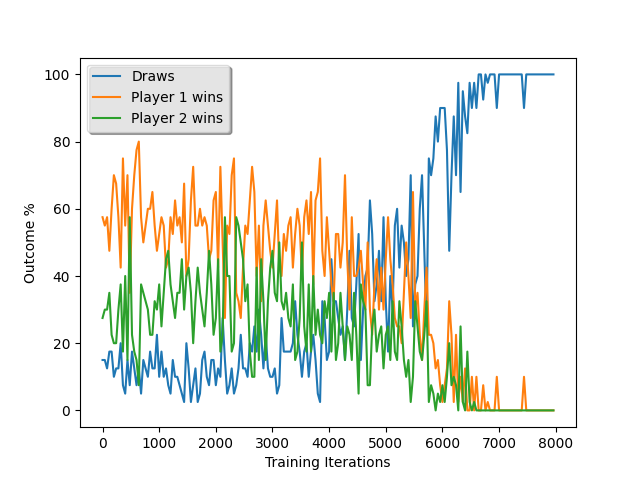
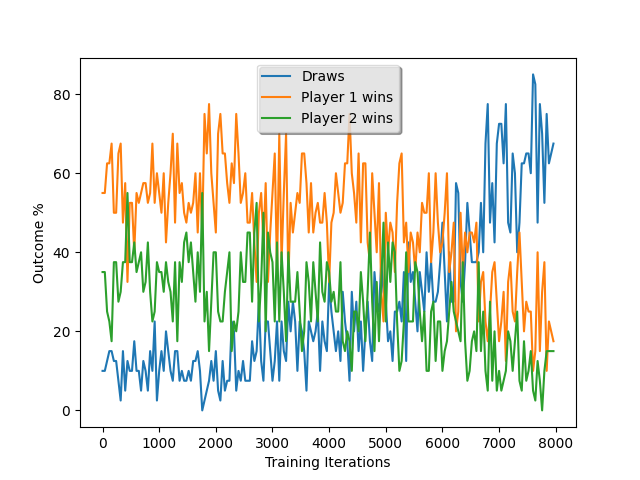
implemented sarsa

diff --git a/sarsalearn.py b/sarsalearn.py
@@ -1,53 +1,51 @@
-import argparse
-import copy
-from hashlib import new
-from game.tic_tac_toe import Board
-from game.tic_tac_toe import TicTacToe
+from typing import Tuple, final
 from game.Player import Player
+from game.tic_tac_toe import Board
+
 import numpy as np
 
-# rewards for win, draw, and loss
 RES_WIN = 1.0
 RES_DRAW = 0.5
 RES_LOSS = 0.0
 
-
-class TDAgent(Player):
+class SarsaAgent(Player):
     def __init__(self,
-                 alpha: float =  0.1,
+                 alpha: float =  0.9,
                  gamma: float = 0.9,
                  epsilon: float = 0.1,
-                 v_init: float = 0.05) -> None:
+                 q_init: float = 0.6) -> None:
         self.side = None
         self.training: bool = True
-        # create table for each possible board state
-        self.vtable = np.empty([3 ** (3 ** 2 + 1)])
-        self.vtable.fill(v_init)
+
+        # create qtable for each possible board state
+        self.qtable = np.full((3 ** (3 ** 2 + 1), 9), q_init)
 
         self.history = []
         self.alpha: float = alpha
         self.gamma: float = gamma
         self.epsilon: float = epsilon
-        self.v_init = v_init
+        self.q_init = q_init
         super().__init__()
-    
+
+
     def get_move(self, board: Board) -> int:
         possible = board.possible_actions()
-
         # take random move epsilon % of the time
         if np.random.binomial(1, self.epsilon) and self.training:
             np.random.shuffle(possible)
             move = tuple(possible[0])
             return (3*move[0] + move[1])
         
-        # otherwise take best move from possible choices
-        copies = [copy.deepcopy(board) for i in possible]
-        for action, boardcopy in zip(possible, copies):
-            boardcopy.take_turn(tuple(action))
-        hashes = [boardcopy.hash() for boardcopy in copies]
-        move = tuple(possible[np.argmax(self.vtable[hashes])])
-        return (3*move[0] + move[1])
-    
+        #otherwise, take best action from qtable
+        board_hash = board.hash()
+        qvals = self.qtable[board_hash]
+        while True:
+            move = np.argmax(qvals)
+            if (board.is_possible((move // 3, move % 3))):
+                return move
+            else:
+                qvals[move] = -1.0
+
     def move(self, board: Board):
         over, _ = board.is_over()
         move = self.get_move(board)
@@ -55,11 +53,11 @@ class TDAgent(Player):
         assert (board.is_possible(action))
         assert (not over)
 
-        self.history.append(board.hash())
+        self.history.append((board.hash(), move))
         board.take_turn(action)
         over, winner = board.is_over()
         return (winner, board, over)
-    
+
     def final_result(self, result: int):
         if (result == -1 and self.side == -1) or (result == 1 and self.side == 1):
             final_value = RES_WIN
@@ -71,19 +69,19 @@ class TDAgent(Player):
         self.history.reverse()
         firstTime = True
 
-        for state in self.history:
-            # on first pass
-            if firstTime:
-                self.vtable[state] = final_value
+        for h in self.history:
+            qvals = self.qtable[h[0]]
+            if firstTime:  # First time through the loop
+                # set the reward of the final move to result reward
+                qvals[h[1]] = final_value
                 firstTime = False
             else:
-                # V(S) = V(S) + \alpha[R + \gamma*V(S') - V(S)]
-                self.vtable[state] = self.vtable[state] + self.alpha * (self.gamma * next_state - self.vtable[state])
-            next_state = self.vtable[state]
-        
-    def new_game(self, side: int):
+                qvals[h[1]] = qvals[h[1]] + self.alpha * (self.gamma * next_max - qvals[h[1]])
+            next_max = qvals[h[1]]
+
+    def new_game(self, side):
         self.side = side
         self.history = []
-    
+
     def set_training(self, training):
         self.training = training

diff --git a/eval.py b/eval.py
@@ -1,12 +1,14 @@
 import matplotlib
 import numpy as np
 import matplotlib.pyplot as plt
+from HumanPlayer import HumanPlayer
 from qlearn import QAgent
 
 from game.tic_tac_toe import Board
 from game.tic_tac_toe import TicTacToe
 from rand_player import RandomPlayer
 from game.Player import Player
+from sarsalearn import SarsaAgent
 from tdlearn import TDAgent
 from benchmark_player import BenchmarkPlayer
 
@@ -27,9 +29,9 @@ def play_game(board: Board, player1: Player, player2: Player) -> int:
             player2.final_result(winner)
             return winner
         if player1Turn:
-            (winner, _, over) = player1.move(board)
+            (winner, board, over) = player1.move(board)
         else:
-            (winner, _, over) = player2.move(board)
+            (winner, board, over) = player2.move(board)
         player1Turn = not player1Turn
 
 
@@ -88,16 +90,41 @@ def eval_players(
 # player1 = QAgent()
 # player2 = QAgent()
 # eval_players("qvq", player1, player2, 40, 200)
+
+# play q agent against benchmark
+# player1.set_training(False)
 # player2 = BenchmarkPlayer()
 # eval_players("qvqanalysis", player1, player2, 40, 200)
 
+# train q agent against benchmark
 # player1 = QAgent()
 # player2 = BenchmarkPlayer()
+
+# play q agent against benchmark
+# player1.set_training(False)
 # eval_players("qvb", player1, player2, 40, 200)
 # player2 = BenchmarkPlayer()
 # eval_players("qvbanalysis", player1, player2, 40, 200)
 
 # train tdagent
-player1 = TDAgent()
-player2 = TDAgent()
-eval_players('tdvtd',player1, player2, 40, 200)
+# player1 = TDAgent()
+# player2 = TDAgent()
+# eval_players('tdvtd',player1, player2, 10, 40)
+
+# player1.set_training(False)
+# player2 = HumanPlayer()
+# eval_players('tdvh', player1, player2, 1, 3)
+
+# play td agent aginst benchmark
+# player1.set_training(False)
+# player2 = BenchmarkPlayer()
+# eval_players("tdvtd analysis", player1, player2, 40, 200)
+
+# train sarsa agent
+player1 = SarsaAgent()
+player2 = SarsaAgent()
+eval_players('svs', player1, player2, 40, 200)
+
+player1.set_training(False)
+player2 = BenchmarkPlayer()
+eval_players('svb', player1, player2, 40, 200)

diff --git a/game/tic_tac_toe.py b/game/tic_tac_toe.py
@@ -56,6 +56,9 @@ class Board(object):
      (2, 0) | (2, 1) | (2, 2)
     '''
 
+    def print_board(self):
+        print(self.cells)
+
     def __init__(self, cells: numpy.array = None) -> None:
         # Use classic 3x3 size.
         self.size: int = 3
@@ -204,41 +207,6 @@ class Board(object):
             if i != self.size - 1:
                 result += ('-' * (2 + self.size * self.size)) + '\n'
         return result
-
-
-def get_all_states() -> typing.Tuple[typing.Set, typing.Set]:
-    '''
-    Devises all valid board states and computes hashes for each of them. Also
-    extracts terminal states useful for the update rule simplification.
-
-    Returns:
-        set: A set of all possible boards' hashes.
-        set: A set of hashes of all boards after a final turn, i.e. terminal
-            boards.
-    '''
-    boards = [Board()]
-    states = set()
-    terminal_states = set()
-    epoch = 0
-    while boards:
-        print(f'Epoch: {epoch}')
-        epoch += 1
-        next_generation = []
-        for board in boards:
-            board_hash = board.hash()
-            if board_hash in states:
-                continue
-            states.add(board_hash)
-            over, _ = board.is_over()
-            if over:
-                terminal_states.add(board_hash)
-                continue
-            for action in board.possible_actions():
-                next_board = copy.deepcopy(board)
-                next_board.take_turn(tuple(action))
-                next_generation.append(next_board)
-        boards = next_generation
-    return states, terminal_states
 
 
 class TicTacToe(object):

diff --git a/HumanPlayer.py b/HumanPlayer.py
@@ -8,8 +8,15 @@ class HumanPlayer(Player):
         super().__init__()
 
     def move(self, board: Board):
-        
-        pass
+        print(board.cells)
+        move = int(input("Please enter a move:\n"))
+        action = (move // 3, move % 3)
+        while (not board.is_possible(action)):
+            move = int(input("input again:\n"))
+        action = (move // 3, move % 3)
+        board.take_turn(action)
+        over, winner = board.is_over()
+        return winner, board, over
 
     def final_result(self, result: int):
         pass

diff --git a/qlearn.py b/qlearn.py
@@ -18,8 +18,7 @@ class QAgent(Player):
         self.training: bool = True
 
         # create qtable for each possible board state
-        self.qtable = np.empty(3 ** (3 ** 2 + 1))
-        self.qtable.fill(q_init)
+        self.qtable = np.full((3 ** (3 ** 2 + 1), 9), q_init)
 
         self.history = []
         self.alpha: float = alpha
